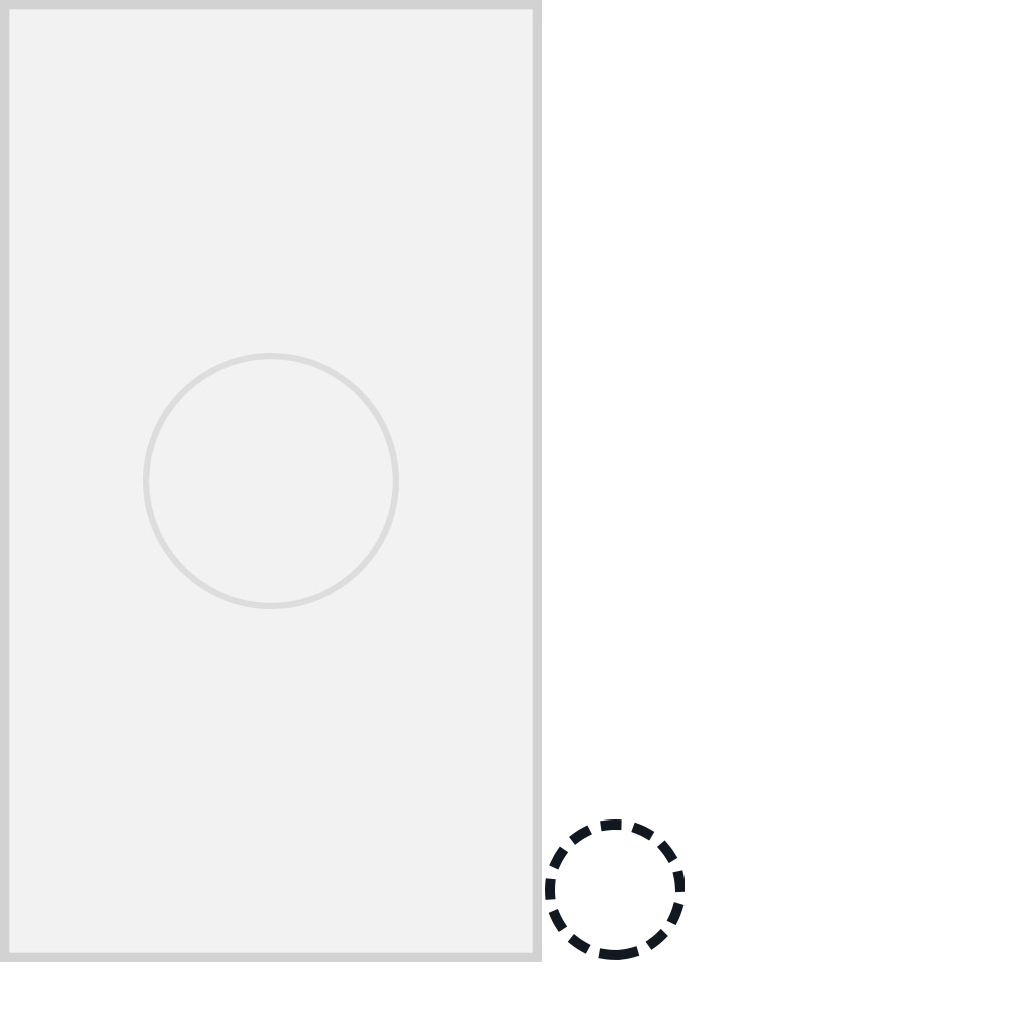
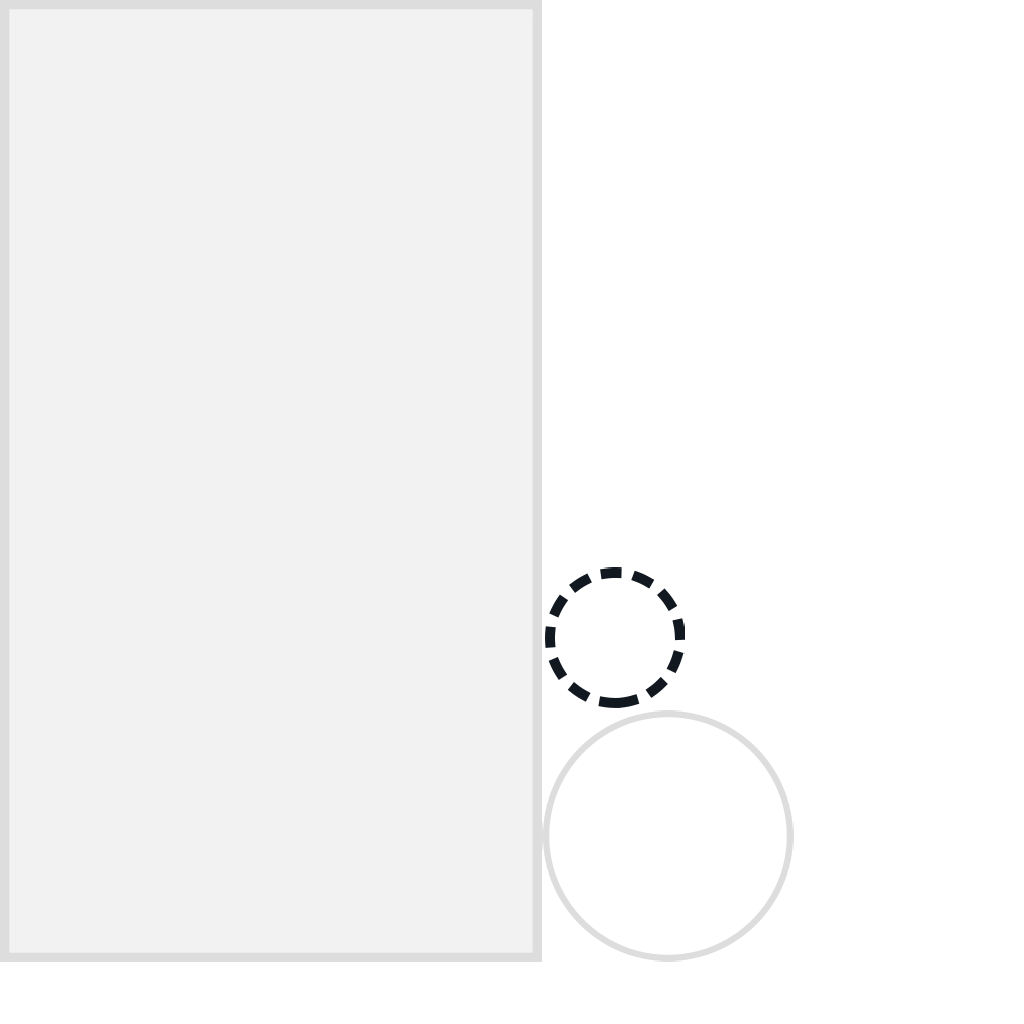
Новй кружок

diff --git a/core/src/com/dk/gametest1/game/Tail.java b/core/src/com/dk/gametest1/game/Tail.java
@@ -1,18 +1,9 @@
-package com.dk.gametest1.game;
-
-import com.badlogic.gdx.graphics.Pixmap;
-import com.badlogic.gdx.graphics.Texture;
-import com.badlogic.gdx.graphics.g2d.Batch;
-import com.badlogic.gdx.graphics.g2d.SpriteBatch;
-import com.badlogic.gdx.graphics.g2d.TextureRegion;
-import com.badlogic.gdx.math.Vector2;
-import com.badlogic.gdx.scenes.scene2d.Actor;
-import com.dk.gametest1.Constants;
+//package com.dk.gametest1.game;
 
 /**
  * Tail of ball
- * Created by dekay on 31.10.2015.
- */
+ /* * Created by dekay on 31.10.2015.
+ *//*
 public class Tail extends Actor {
     Vector2 deltaStep;
     private TextureRegion reg; //Texture for tail
@@ -21,9 +12,9 @@ public class Tail extends Actor {
         this.init();
     }
 
-    /**
+    *//**
      * inititalizing the tail
-     */
+ *//*
     private void init() {
         deltaStep = new Vector2();
         Pixmap pix = createTailPixmap();
@@ -32,13 +23,13 @@ public class Tail extends Actor {
         reg = new TextureRegion(texture);
     }
 
-    /**
+    *//**
      * Creating visual representation for tail using outer and inner radius and color
      *
      * @return pixmap
-     */
-    private Pixmap createTailPixmap() {
-        int radius = Constants.CIRCLE_RADIUS;
+ *//*
+   *//* private Pixmap createTailPixmap() {
+       int radius = Constants.CIRCLE_RADIUS;
         int radius2 = Constants.CIRCLE_RADIUS2;
         Pixmap pixmap = new Pixmap(radius * 2 + 1, radius * 2 + 1, Pixmap.Format.RGBA8888);
         pixmap.setColor(1, 1, 1, 0);
@@ -48,24 +39,24 @@ public class Tail extends Actor {
         pixmap.setColor(1, 1, 1, 1);
         pixmap.fillCircle(radius, radius, radius2);
         return pixmap;
-    }
+    }*//*
 
-    /**
+    *//**
      * updating position of the tail
      *
      * @param delta - time between current frame and last one in seconds
-     */
+ *//*
 
     @Override
     public void act(float delta) {
 
     }
 
-    /**
+    *//**
      * rendering tail using spritebatch and all features of the tail
      *
      * @param batch
-     */
+ *//*
     public void draw(Batch batch, float parentAlpha) {
         batch.draw(reg.getTexture(),
                 getX(), getY(),
@@ -77,4 +68,4 @@ public class Tail extends Actor {
                 reg.getRegionWidth(), reg.getRegionHeight(),
                 false, false);
     }
-}
+}*/

diff --git a/core/src/com/dk/gametest1/game/Background.java b/core/src/com/dk/gametest1/game/Background.java
@@ -10,28 +10,58 @@ import com.dk.gametest1.Constants;
  * Created by Крава on 11.11.2015.
  */
 public class Background extends Actor {
-    private TextureRegion reg;
+    private TextureRegion backReg;
+    private Circle circle;
 
     public Background() {
         init();
     }
 
     private void init() {
-        reg = Assets.instance.background.back;
+        backReg = Assets.instance.background.back;
+        circle = new Circle();
         setSize(Constants.VIEWPORT_WIDTH, Constants.VIEWPORT_HEIGHT);
         setPosition(-Constants.VIEWPORT_WIDTH / 2, -Constants.VIEWPORT_HEIGHT / 2);
     }
 
     @Override
     public void draw(Batch batch, float parentAlpha) {
-        batch.draw(reg.getTexture(),
+        batch.draw(backReg.getTexture(),
                 getX(), getY(),
                 getOriginX(), getOriginY(),
                 getWidth(), getHeight(),
                 getScaleX(), getScaleY(),
                 getRotation(),
-                reg.getRegionX(), reg.getRegionY(),
-                reg.getRegionWidth(), reg.getRegionHeight(),
+                backReg.getRegionX(), backReg.getRegionY(),
+                backReg.getRegionWidth(), backReg.getRegionHeight(),
                 false, false);
+        circle.draw(batch, parentAlpha);
+    }
+
+    class Circle extends Actor {
+        private TextureRegion circleReg;
+
+        public Circle() {
+            init();
+        }
+
+        private void init() {
+            circleReg = Assets.instance.timerCircle.circle;
+            setSize(Constants.TIMER_CIRCLE_RADIUS, Constants.TIMER_CIRCLE_RADIUS);
+            setPosition(0 - Constants.TIMER_CIRCLE_RADIUS / 2f, 0 - Constants.TIMER_CIRCLE_RADIUS / 2f);
+        }
+
+        @Override
+        public void draw(Batch batch, float parentAlpha) {
+            batch.draw(circleReg.getTexture(),
+                    getX(), getY(),
+                    getOriginX(), getOriginY(),
+                    getWidth(), getHeight(),
+                    getScaleX(), getScaleY(),
+                    getRotation(),
+                    circleReg.getRegionX(), circleReg.getRegionY(),
+                    circleReg.getRegionWidth(), circleReg.getRegionHeight(),
+                    false, false);
+        }
     }
 }

diff --git a/core/src/com/dk/gametest1/Assets.java b/core/src/com/dk/gametest1/Assets.java
@@ -15,6 +15,7 @@ public class Assets implements Disposable, AssetErrorListener {
     public static final Assets instance = new Assets();
     public PauseCircle pauseCircle;
     public Background background;
+    public TimerCircle timerCircle;
     private AssetManager assetManager;
 
     private Assets() {
@@ -28,6 +29,7 @@ public class Assets implements Disposable, AssetErrorListener {
         TextureAtlas atlas = assetManager.get(TEXTURE_ATLAS);
         pauseCircle = new PauseCircle(atlas);
         background = new Background(atlas);
+        timerCircle = new TimerCircle(atlas);
     }
 
 
@@ -55,6 +57,14 @@ public class Assets implements Disposable, AssetErrorListener {
 
         public Background(TextureAtlas atlas) {
             back = atlas.findRegion("back");
+        }
+    }
+
+    public class TimerCircle {
+        public final TextureAtlas.AtlasRegion circle;
+
+        public TimerCircle(TextureAtlas atlas) {
+            circle = atlas.findRegion("timer_circle");
         }
     }
 }

diff --git a/core/src/com/dk/gametest1/Constants.java b/core/src/com/dk/gametest1/Constants.java
@@ -12,8 +12,7 @@ public final class Constants {
     public static final float BALL_RADIUS = 0.8f;   //размер шарика
     public static final int SMALL_BALL_RADIUS_FOR_BITMAP = 128;
     public static final float SMALL_BALL_SPEED = 2f;   //easy - 15, medium - 20, hard - 25
-    public static final int CIRCLE_RADIUS = 150;        //timer outer radius
-    public static final int CIRCLE_RADIUS2 = 143;       //timer inner radius
+    public static final int TIMER_CIRCLE_RADIUS = 3;        //timer outer radius
     public static final int FONT_SIZE = 72;
     public static final Color DARK = new Color(0.066f, 0.094f, 0.121f, 1);
     public static final Color LIGHT = new Color(0.95f, 0.95f, 0.95f, 1);

diff --git a/core/src/com/dk/gametest1/game/Ball.java b/core/src/com/dk/gametest1/game/Ball.java
@@ -21,8 +21,8 @@ public class Ball extends Actor {
     private Pixmap pixmap; //visual representation for ball
     private TextureRegion textureRegion; //texture for ball
     private int radius; //radius of bitmap
-    private Tail bigTail; //everything is clear
-    private Tail smallTail;
+    // private Tail bigTail; //everything is clear
+    // private Tail smallTail;
 
     public Ball() {
         init();

diff --git a/desktop/src/com/dk/gametest1/desktop/DesktopLauncher.java b/desktop/src/com/dk/gametest1/desktop/DesktopLauncher.java
@@ -7,6 +7,8 @@ import com.dk.gametest1.GameTest1StartClass;
 public class DesktopLauncher {
     public static void main(String[] arg) {
         LwjglApplicationConfiguration config = new LwjglApplicationConfiguration();
+        config.width = 480;
+        config.height = 640;
         new LwjglApplication(new GameTest1StartClass(), config);
     }
 }
